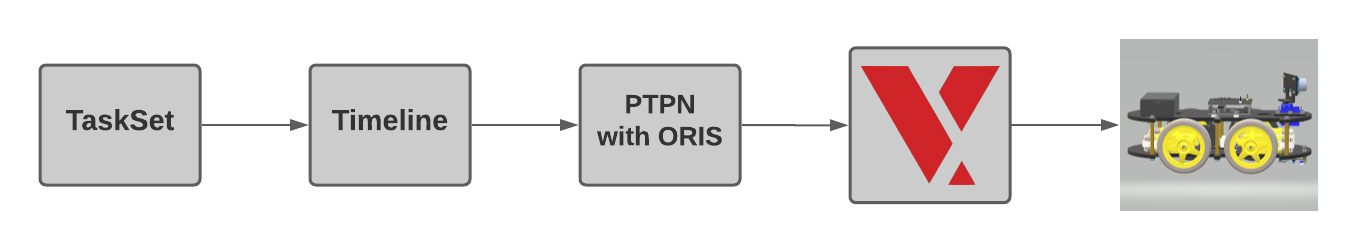
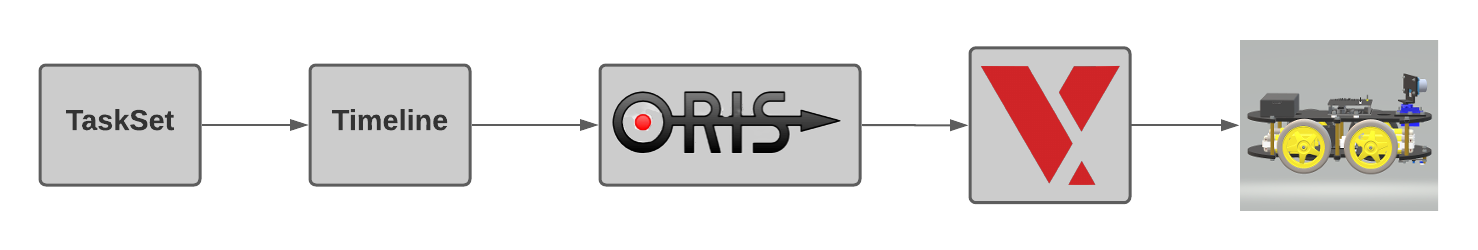
update README.md in main directory, workspace-VxWorks and workspace-Oris

Changed region(s): [[0.1856, 0.168, 0.7732, 0.84], [0.8041, 0.14, 0.9897, 0.84], [0.0, 0.252, 0.1546, 0.756]]

diff --git a/workspace-Oris/traces_analyzer.py b/workspace-Oris/traces_analyzer.py
@@ -66,7 +66,7 @@ def main():
     To start test for task with input file by trace extractor.
 
     Usage, (example)
-        python3 tester.py output_tau_2_t_c21_good.txt 5
+        python3 traces_analyzer.py output_tau_2_t_c21_good.txt 5
     with:
         sys.argv[0] = tester.py (not relevant)
         sys.argv[1] = output_tau_2_t_c21_good.txt (file_name.txt)

diff --git a/README.md b/README.md
@@ -1,15 +1,88 @@
-# Idea to develop Anakin-rover
-Embedded Software to develop a "like-rover" project with Raspberry Pi 3B+, VxWorks and Oris.
+# Resilience Rover
+The project for Software Engineering Embedded Systems exam consists of embedded software to develop a <i>"rover-like"</i> platform with Raspberry Pi 3B+ using VxWorks and Oris.
+```
+├── docs                    # images and documentation
+├── workspace-Oris          # design and evaluation of the Taskset
+│   ├── README.md
+│   └── ...
+└── workspace-VxWorks       # implementation of the Taskset           
+    ├── hwLib                   # hardware libraries
+    ├── utility                 # utility includes
+    ├── README.md
+    └── ...
+```
 
-## Workflow
-The workflow is as follows, from <b>TaskSet Idea</b> to <b>Hardware Implementation</b> passing through an analysis on <b>ORIS</b> and <b>Develop dkm on VxWorks</b>.
+## Project Workflow
+The workflow followed goes from the design of the taskset to its implementation.
 <p align=center>
     <img src="docs/Workflow.png" width=600 />
 </p>
 
-The development follows the following V-model,
+### TaskSet: 
+Set of task to implement for Resilience rover:
+- Satellite Communication: to permit the rover to communicate with satellite.
+- Direction: to compute the direction of reference for rover.
+- Movement: to handle motors and mission.
+- Photograph: to take photo.
+- Geological Sample Collection: handle drill and arm of rover.
+- Atmospheric Pressure: to compute pressure and send data to altitude task.
+- Altitude Record: to compute and record altitude level.
+- Temperature Record: to record temperature.
+- Sand Storm Detection: to detection sand storm.
+### Timeline: 
+Define periods, priorities, chunks and deadlines of taskset.
 <p align=center>
-    <img src="docs/V-model-project.png" width=600 />
+    <img src="docs/tableTasks.png" width=300 />
+</p>
+
+### Oris: 
+Tool for qualitative verification and quantitative evaluation of reactive timed systems, which supports modeling and analysis of various classes of timed extensions of Petri Nets.
+
+Oris implements symbolic state space analysis of preemptive Time Petri Nets, which enable schedulability analysis of real-time systems running under priority preemptive scheduling; and stochastic Time Petri Nets, which enable an integrated approach to qualitative verification and quantitative evaluation.
+
+### VxWorks: 
+VxWorks is a deterministic, priority-based preemptive RTOS with low latency and minimal jitter. It is built on an upgradable, future-proof architecture to help you rapidly respond to changing market requirements and technology advancements.
+
+VxWorks is the only RTOS to support C++17, Boost, Rust, Python, pandas, and more, as well as an edge-optimized, OCI-compliant container engine — enabling you to use the languages, tools, and technologies you love most to innovate where it matters most.
+
+### Target:
+Resilience <i>rover-like</i> is the development platform.
+<p align=center>
+    <img src="docs/Resilience_img.png" width=600 />
+</p>
+
+## V-Model
+The development followed the following V-model,
+<p align=center>
+    <img src="docs/V-model-Exam.png" width=600 />
+</p>
+
+- SD1, SD2, SD3: an initial phase in which we came up with the requirements, i.e., the tasks that the rover would have to perform.
+- SD4, SD5, SD6: the steps are,
+    - Taskset definition;
+    - Timeline drafting;
+    - PTPN traduction and analysis;
+    - Implementation on VxWorks RTOS;
+    - Execution Time profiling.
+
+## Requirements 
+```
+- Raspberry Pi 3B+
+- LAN cable
+- 12V battery
+- UART cable
+- 4 DC motors
+- motor shield l298n
+- breadboard 
+- 9 leds and resistors (~220 ohm)
+- SDK VxWorks
+```
+
+You can find SDK and development toolchain in that <a href="https://github.com/AngeloDamante/vxWorks-rb3plus-blink-test"> REPO </a>.
+
+### GPIO bus connections
+<p align=center>
+    <img src="docs/GPIO.png" width=600 />
 </p>
 
 ## Authors

diff --git a/workspace-Oris/README.md b/workspace-Oris/README.md
@@ -1,5 +1,75 @@
-# ORIS
-In this section there are: PTPN and log files produced by ORIS. 
+# ORIS workspace
+Design and Evaluation Taskset with Preemption Timed Petri Net (PTPN).
+
+## Tree
+```
+├── traces_analyzer.py
+└── Workspace.zip
+    ├── Rover
+    │   ├── File Importer Box
+    │   │   └── ...
+    │   ├── Petri Simulator
+    │   │   └── ...
+    │   ├── PTPN
+    │   │   └── ...
+    │   ├── TCAnalyzer
+    │   │   └── ...
+    │   ├── TraceExtractor_1Satellite
+    │   │   ├── output_t_1r_t_11e_good.txt
+    │   │   └── TraceExtractor_1Satellite.ext
+    │   ├── TraceExtractor_2direction
+    │   │   ├── output_t_2r_t_22e_good.txt
+    │   │   └── TraceExtractor_2direction.ext
+    │   ├── TraceExtractor_3movement
+    │   │   ├── output_t_3r_t_32e_good.txt
+    │   │   └── TraceExtractor_3movement.ext
+    │   ├── TraceExtractor_4photograph
+    │   │   ├── output_t_4r_t_41e_good.txt
+    │   │   └── TraceExtractor_4photograph.ext
+    │   ├── TraceExtractor_5samples
+    │   │   ├── output_t_5r_t_52e_good.txt
+    │   │   └── TraceExtractor_5samples.ext
+    │   ├── TraceExtractor_6pressure
+    │   │   ├── output_t_6r_t_61e_good.txt
+    │   │   └── TraceExtractor_6pressure.ext
+    │   ├── TraceExtractor_7altitude
+    │   │   ├── output_t_61e_t_71e_good.txt
+    │   │   └── TraceExtractor_7altitude.ext
+    │   ├── TraceExtractor_8temperature
+    │   │   ├── output_t_8r_t_81e_good.txt
+    │   │   └── TraceExtractor_8temperature.ext
+    │   └── TraceExtractor_9storm
+    │       ├── output_t_9r_t_91e_good.txt
+    │       └── TraceExtractor_9storm.ext
+    ├── Swe4es.oaw
+    └── Swe4es.oaw.bkp
+```
+
+### Timeline
+The first step in translating the taskset to PTPN is to define a valid timeline.
+<p align="center">
+    <img src="../docs/timeline.png" />
+</p>
+
+### PTPN
+The resulting PTPN:
+<p align="center">
+    <img src="../docs/ptpn.png" />
+</p>
 
 ## Feasible Tester
-The ```tester.py``` script takes care of analyzing the traces to check deadline misses for the given task.
+The ```traces_analyzer.py``` script takes care of analyzing the traces to check deadline misses for the given task. 
+
+### Usage
+```
+python3 traces_analyzer.py file_traces_log_task.txt deadline_task
+
+# example
+python3 traces_analyzer.py output_tau_2_t_c21_good.txt 5
+```
+## Toolchain
+1. Make PTPN.
+2. TCAnalyzer to make graph with statespace.
+3. TraceExtractor for all task -> files with traces.
+4. Feasible Tester for each file with traces.
+5. Petri Simulator with RTAI_log.txt to verify correct execution.

diff --git a/workspace-VxWorks/README.md b/workspace-VxWorks/README.md
@@ -1,2 +1,95 @@
-# VxWorks
+# VxWorks workspace
 In this section there are all the functions implemented to develop code for the rover.
+
+## Tree
+```
+├── hwLib
+│   ├── gpioLib.c
+│   ├── gpioLib.h
+│   ├── l298n.c
+│   ├── l298n.h
+│   └── pin.h
+├──  utility
+│   ├── busySleep.c
+│   ├── busySleep.h
+│   ├── log.c
+│   ├── log.h
+│   ├── mutex.c
+│   ├── mutex.h
+│   ├── utils.c
+│   └── utils.h
+├── LED_time_test.c
+├── MOTORS_time_test.c
+├── mission.c
+├── mission.h
+├── mission.txt
+├── taskset.c
+├── taskset.h
+├── tasksetSpec.h
+├── tasks.h
+├── entrypoints.c
+├── entrypoints.h
+└── dkm.c
+```
+
+### hwLib 
+This directory contains the libraries to handle the GPIO bus. The sensors are simulated with LEDs and the motors are controlled with the l298n module.
+<p align="center">
+    <img src="../docs/hwLib.png" width=600 />
+</p>
+
+### utility
+The mutex consists of a structure that takes into account the priorities of the tasks that use it to implement the Priority Ceiling Protocol.
+```
+struct mutex{
+    SEM_ID sem;
+    int ceiling;
+};
+
+/* PCP */
+struct mutex* mov = newMutex();
+foreach(task with mov){
+    updateCeiling(mov, task.priority);
+}
+```
+The busySleep function is the function to simulate compute timings.
+```
+void busySleep(int ms);
+```
+
+### Main Toolchain
+<p align="center">
+    <img src="../docs/headers.png" width=600 />
+</p>
+with:
+
+- ```taskSetSpec.h```: To define taskset specifications.
+- ```mission.h```: To define the mission directives.
+- ```entrypoints.h```: To define the chunks.
+- ```taskset.h```: To define the jobs.
+- ```tasks.h```: To define the generator tasks.
+- ```dkm.c```: Downloadable Kernel Module with start and stop functions.
+
+
+## Build and Run
+```
+git clone https://github.com/AngeloDamante/rover-Raspberry-VxWorks.git
+cd rover-Raspberry-VxWorks/workspace-VxWorks
+chmod +x build.sh
+./build.sh
+```
+
+## Target Session
+After the loading "dkm.o".
+```
+sp start                    // active motors, led and spawn periodic tasks
+
+sp spawnSatelliteTask       // sporadic task
+
+sp stop                     // clear GPIO bus and delete all tasks
+```
+
+### Resilience in Action!
+<p align="center">
+    <img src="../docs/action.gif" width=400 />
+</p>
